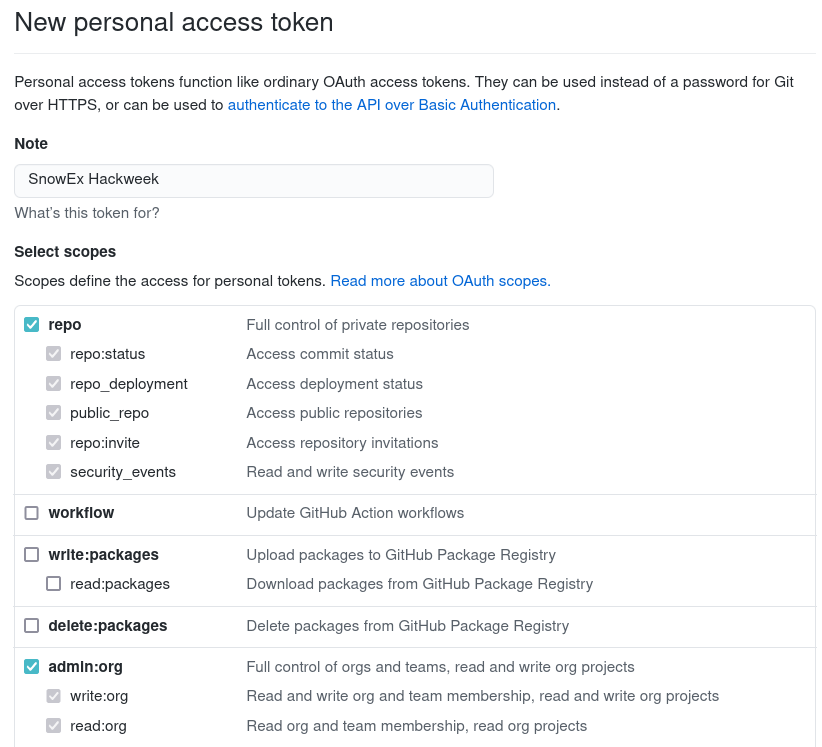
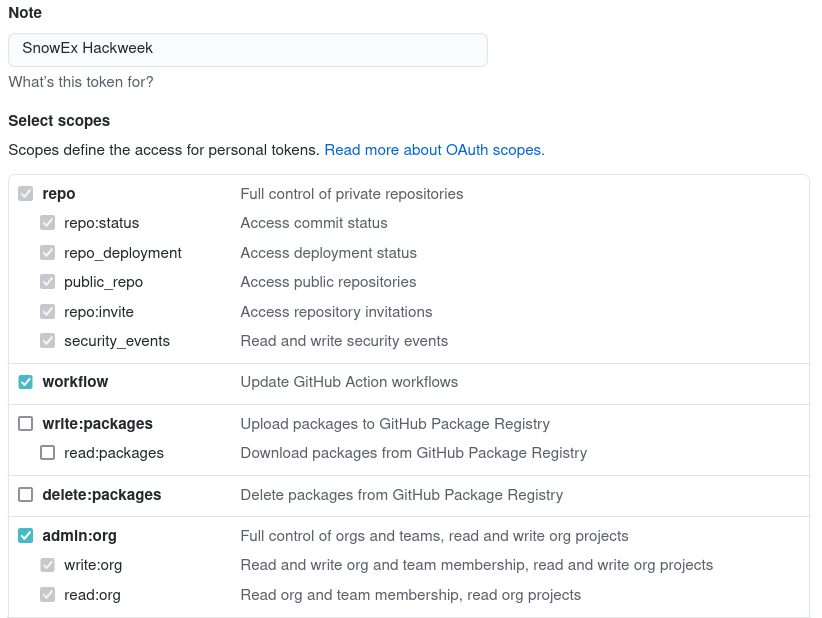
Preliminary - Git - Update with feedback and fix token privileges.
Thank you @spestana for the feedback, testing, and troubleshooting the
privileges for forks.

diff --git a/book/preliminary/git.md b/book/preliminary/git.md
@@ -48,7 +48,7 @@ In order to pull and push changes to GitHub, you need to setup an authentication
 method. For machines and environments that are not your personal, it is a good
 practice to use a [GitHub personal access tokens](https://docs.github.com/en/github/authenticating-to-github/keeping-your-account-and-data-secure/creating-a-personal-access-token)
 +++
-For the hackweek, all you need is to check the 'repo' and 'read:org' scope.
+For the hackweek, you need to check the **repo**, **admin:org**, and **workflow** scope.
 
 ![github-token](../img/github-token.png)
 
